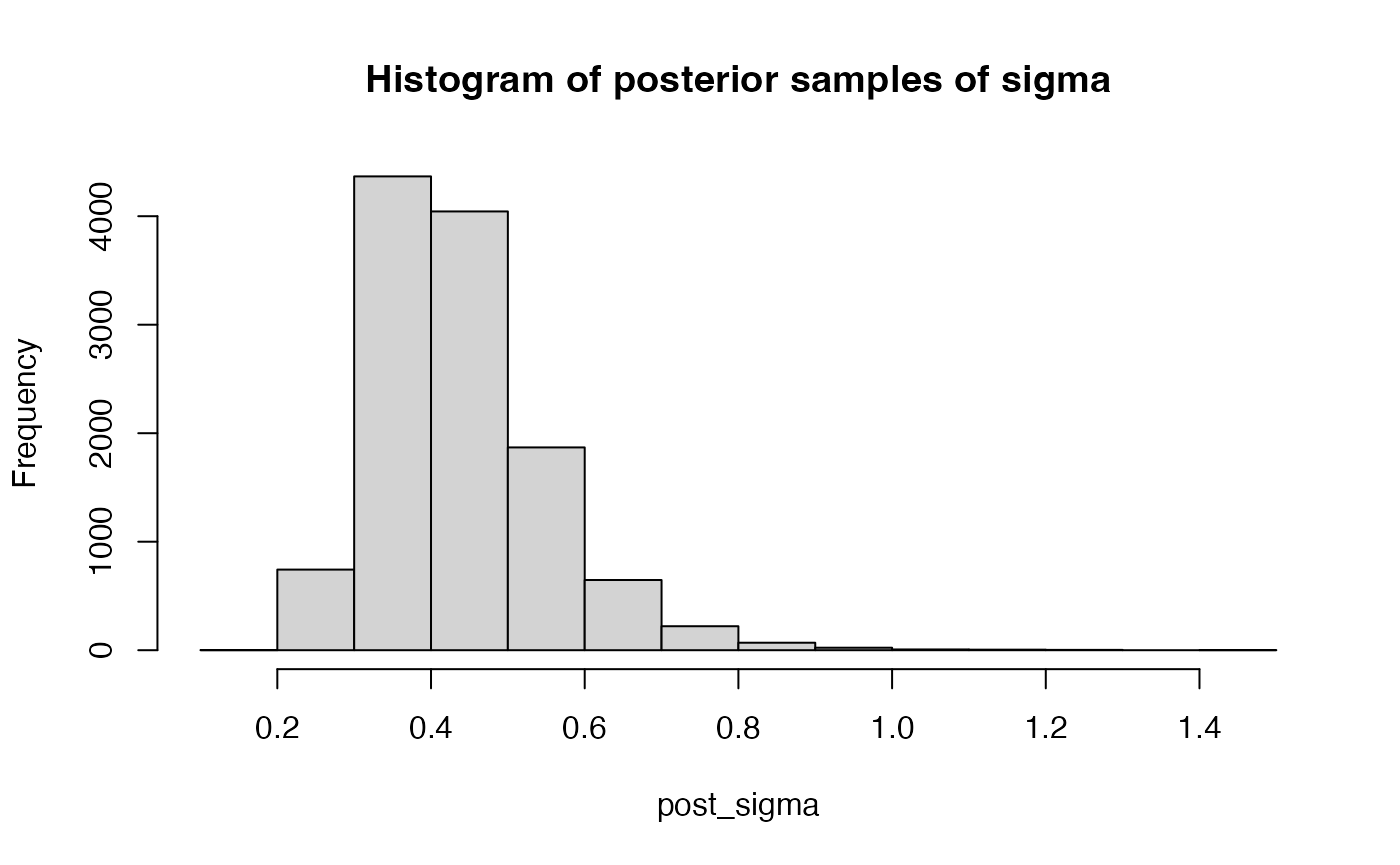
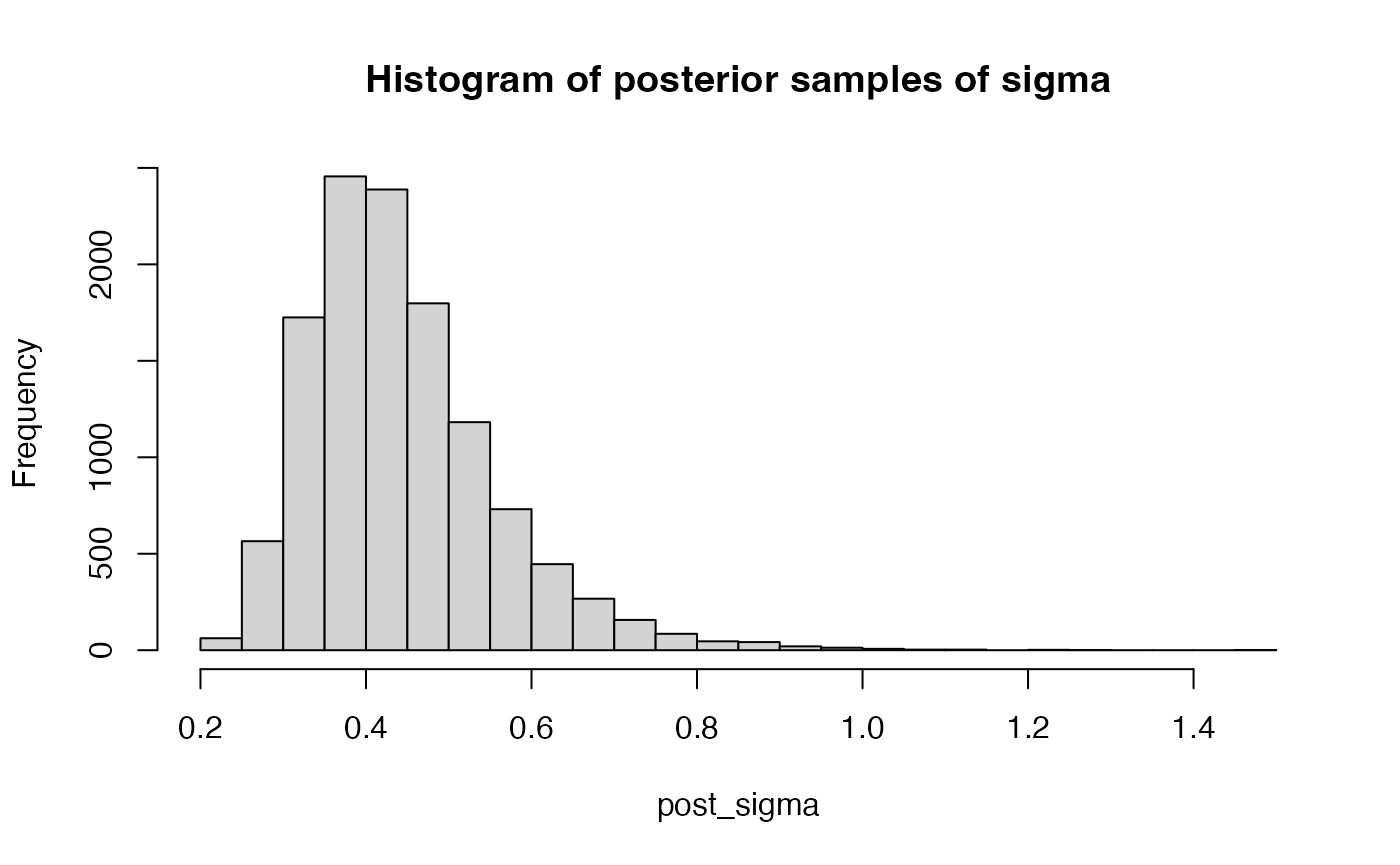
Update tutorial

diff --git a/docs/articles/FLOW-MR-tutorial.html b/docs/articles/FLOW-MR-tutorial.html
@@ -69,10 +69,10 @@ how to use the package step by step.</p>
 </h2>
 <div class="sourceCode" id="cb1"><pre class="downlit sourceCode r">
 <code class="sourceCode R"><span><span class="co"># Install devtools if not installed</span></span>
-<span><span class="fu"><a href="https://rdrr.io/r/utils/install.packages.html" class="external-link">install.packages</a></span><span class="op">(</span><span class="st">"devtools"</span><span class="op">)</span></span>
-<span><span class="co">#&gt; </span></span>
-<span><span class="co">#&gt; The downloaded binary packages are in</span></span>
-<span><span class="co">#&gt;  /var/folders/1p/kyg0zmtx4gdg27q_5x4d78fc0000gn/T//RtmpcEPzh6/downloaded_packages</span></span>
+<span><span class="kw">if</span> <span class="op">(</span><span class="op">!</span><span class="fu"><a href="https://rdrr.io/r/base/ns-load.html" class="external-link">requireNamespace</a></span><span class="op">(</span><span class="st">"devtools"</span>, quietly <span class="op">=</span> <span class="cn">TRUE</span><span class="op">)</span><span class="op">)</span> <span class="op">{</span></span>
+<span>  <span class="fu"><a href="https://rdrr.io/r/utils/install.packages.html" class="external-link">install.packages</a></span><span class="op">(</span><span class="st">"devtools"</span><span class="op">)</span></span>
+<span><span class="op">}</span></span>
+<span></span>
 <span></span>
 <span><span class="co"># Install FLOW-MR</span></span>
 <span><span class="fu">devtools</span><span class="fu">::</span><span class="fu"><a href="https://remotes.r-lib.org/reference/install_github.html" class="external-link">install_github</a></span><span class="op">(</span><span class="st">"ZixuanWu1/FLOW-MR"</span><span class="op">)</span></span>
@@ -86,9 +86,9 @@ how to use the package step by step.</p>
 <span><span class="co">#&gt; RcppArmad... (14.0.2-1 -&gt; 14.2.3-1) [CRAN]</span></span>
 <span><span class="co">#&gt; </span></span>
 <span><span class="co">#&gt; The downloaded binary packages are in</span></span>
-<span><span class="co">#&gt;  /var/folders/1p/kyg0zmtx4gdg27q_5x4d78fc0000gn/T//RtmpcEPzh6/downloaded_packages</span></span>
+<span><span class="co">#&gt;  /var/folders/1p/kyg0zmtx4gdg27q_5x4d78fc0000gn/T//RtmpL9P6lU/downloaded_packages</span></span>
 <span><span class="co">#&gt; <span style="color: #00BBBB;">──</span> <span style="color: #00BBBB;">R CMD build</span> <span style="color: #00BBBB;">─────────────────────────────────────────────────────────────────</span></span></span>
-<span><span class="co">#&gt; * checking for file ‘/private/var/folders/1p/kyg0zmtx4gdg27q_5x4d78fc0000gn/T/RtmpcEPzh6/remotesa4275d259a15/ZixuanWu1-FLOW-MR-8310e6b/DESCRIPTION’ ... OK</span></span>
+<span><span class="co">#&gt; * checking for file ‘/private/var/folders/1p/kyg0zmtx4gdg27q_5x4d78fc0000gn/T/RtmpL9P6lU/remotes17574441c9acc/ZixuanWu1-FLOW-MR-888679f/DESCRIPTION’ ... OK</span></span>
 <span><span class="co">#&gt; * preparing ‘FLOWMR’:</span></span>
 <span><span class="co">#&gt; * checking DESCRIPTION meta-information ... OK</span></span>
 <span><span class="co">#&gt; * cleaning src</span></span>
@@ -100,12 +100,26 @@ how to use the package step by step.</p>
 <span><span class="co">#&gt; Warning: bad markup (extra space?) at BayesMediation.Rd:56:30</span></span>
 <span><span class="co">#&gt; Warning: bad markup (extra space?) at BayesMediation.Rd:58:17</span></span>
 <span><span class="co">#&gt; Warning: bad markup (extra space?) at BayesMediation.Rd:59:18</span></span>
+<span><span class="co">#&gt; Warning: bad markup (extra space?) at MultivariateMediation.Rd:57:21</span></span>
+<span><span class="co">#&gt; Warning: bad markup (extra space?) at MultivariateMediation.Rd:58:22</span></span>
+<span><span class="co">#&gt; Warning: bad markup (extra space?) at MultivariateMediation.Rd:59:26</span></span>
+<span><span class="co">#&gt; Warning: bad markup (extra space?) at MultivariateMediation.Rd:61:27</span></span>
+<span><span class="co">#&gt; Warning: bad markup (extra space?) at MultivariateMediation.Rd:63:29</span></span>
+<span><span class="co">#&gt; Warning: bad markup (extra space?) at MultivariateMediation.Rd:65:30</span></span>
+<span><span class="co">#&gt; Warning: bad markup (extra space?) at MultivariateMediation.Rd:67:17</span></span>
+<span><span class="co">#&gt; Warning: bad markup (extra space?) at MultivariateMediation.Rd:68:18</span></span>
 <span><span class="co">#&gt; Warning: bad markup (extra space?) at gibbs_wrapper.Rd:64:9</span></span>
 <span><span class="co">#&gt; Warning: bad markup (extra space?) at gibbs_wrapper.Rd:65:9</span></span>
 <span><span class="co">#&gt; Warning: bad markup (extra space?) at gibbs_wrapper.Rd:66:14</span></span>
 <span><span class="co">#&gt; Warning: bad markup (extra space?) at gibbs_wrapper.Rd:67:14</span></span>
 <span><span class="co">#&gt; Warning: bad markup (extra space?) at gibbs_wrapper.Rd:68:10</span></span>
 <span><span class="co">#&gt; Warning: bad markup (extra space?) at gibbs_wrapper.Rd:69:13</span></span>
+<span><span class="co">#&gt; Warning: bad markup (extra space?) at gibbs_wrapper_multivariate.Rd:71:9</span></span>
+<span><span class="co">#&gt; Warning: bad markup (extra space?) at gibbs_wrapper_multivariate.Rd:72:9</span></span>
+<span><span class="co">#&gt; Warning: bad markup (extra space?) at gibbs_wrapper_multivariate.Rd:73:14</span></span>
+<span><span class="co">#&gt; Warning: bad markup (extra space?) at gibbs_wrapper_multivariate.Rd:74:14</span></span>
+<span><span class="co">#&gt; Warning: bad markup (extra space?) at gibbs_wrapper_multivariate.Rd:75:10</span></span>
+<span><span class="co">#&gt; Warning: bad markup (extra space?) at gibbs_wrapper_multivariate.Rd:76:13</span></span>
 <span><span class="co">#&gt; Warning: bad markup (extra space?) at summary_gibbs.Rd:24:12</span></span>
 <span><span class="co">#&gt; Warning: bad markup (extra space?) at summary_gibbs.Rd:25:16</span></span>
 <span><span class="co">#&gt; Warning: bad markup (extra space?) at summary_gibbs.Rd:26:10</span></span>
@@ -159,7 +173,7 @@ One can download the traits from this <a href="https://www.dropbox.com/scl/fo/mq
 <span><span class="va">sel.file</span> <span class="op">&lt;-</span> <span class="fu"><a href="https://rdrr.io/r/base/c.html" class="external-link">c</a></span><span class="op">(</span><span class="st">"BMI-giant17eu.csv"</span>, <span class="st">"BMIchild-egg15.csv"</span> <span class="op">)</span></span>
 <span></span>
 <span><span class="co"># Exposure file</span></span>
-<span><span class="va">exp.file</span> <span class="op">&lt;-</span> <span class="fu"><a href="https://rdrr.io/r/base/c.html" class="external-link">c</a></span><span class="op">(</span> <span class="st">"BMI8year_moba19"</span>,<span class="st">"BMIadult-ukb.csv"</span> <span class="op">)</span></span>
+<span><span class="va">exp.file</span> <span class="op">&lt;-</span> <span class="fu"><a href="https://rdrr.io/r/base/c.html" class="external-link">c</a></span><span class="op">(</span> <span class="st">"BMI8year-moba19"</span>,<span class="st">"BMIadult-ukb.csv"</span> <span class="op">)</span></span>
 <span></span>
 <span><span class="co"># Outcome file</span></span>
 <span><span class="va">out.file</span> <span class="op">&lt;-</span> <span class="st">"Breast-Micha17erp.csv"</span></span>
@@ -174,7 +188,7 @@ One can download the traits from this <a href="https://www.dropbox.com/scl/fo/mq
 <span><span class="co">#&gt; [1] "Marker candidates will not be obtained as number of risk factors k &gt; 1"</span></span>
 <span><span class="co">#&gt; [1] "loading data for selection: BMI-giant17eu.csv ..."</span></span>
 <span><span class="co">#&gt; [1] "loading data for selection: BMIchild-egg15.csv ..."</span></span>
-<span><span class="co">#&gt; [1] "loading data from exposure: BMI8year_moba19 ..."</span></span>
+<span><span class="co">#&gt; [1] "loading data from exposure: BMI8year-moba19 ..."</span></span>
 <span><span class="co">#&gt; [1] "loading data from exposure: BMIadult-ukb.csv ..."</span></span>
 <span><span class="co">#&gt; [1] "loading data from outcome: Breast-Micha17erp.csv ..."</span></span>
 <span><span class="co">#&gt; [1] "Start clumping using PLINK ..."</span></span>
@@ -210,8 +224,8 @@ diagonal matrix.</p>
 <span><span class="va">cor_mat</span> <span class="op">=</span> <span class="va">data.list</span><span class="op">$</span><span class="va">cor.mat</span><span class="op">[</span><span class="fl">3</span><span class="op">:</span><span class="fl">1</span>, <span class="fl">3</span><span class="op">:</span><span class="fl">1</span><span class="op">]</span></span>
 <span></span>
 <span><span class="va">result</span> <span class="op">=</span> <span class="fu"><a href="../reference/BayesMediation.html">BayesMediation</a></span><span class="op">(</span><span class="va">Gamma_hat</span>, <span class="va">Sd_hat</span>, cor <span class="op">=</span> <span class="va">cor_mat</span>, inv <span class="op">=</span> <span class="cn">TRUE</span><span class="op">)</span></span>
-<span><span class="co">#&gt; [1] "2025-03-14 17:51:17 CDT"</span></span>
-<span><span class="co">#&gt; [1] "2025-03-14 17:53:00 CDT"</span></span></code></pre></div>
+<span><span class="co">#&gt; [1] "2025-03-17 17:48:54 CDT"</span></span>
+<span><span class="co">#&gt; [1] "2025-03-17 17:50:38 CDT"</span></span></code></pre></div>
 </div>
 <div class="section level3">
 <h3 id="step-3-look-at-summary-of-direct-effects">Step 3: Look at summary of direct effects<a class="anchor" aria-label="anchor" href="#step-3-look-at-summary-of-direct-effects"></a>
@@ -220,34 +234,34 @@ diagonal matrix.</p>
 corresponds to a parameter.</p>
 <div class="sourceCode" id="cb6"><pre class="downlit sourceCode r">
 <code class="sourceCode R"><span><span class="fu"><a href="https://rdrr.io/r/base/print.html" class="external-link">print</a></span><span class="op">(</span><span class="va">result</span><span class="op">$</span><span class="va">summary</span><span class="op">)</span></span>
-<span><span class="co">#&gt;                   mean          var           sd         2.5%         50%</span></span>
-<span><span class="co">#&gt; B[1,2]     0.154338457 1.701102e-02 0.1304263188 -0.086087835  0.14881437</span></span>
-<span><span class="co">#&gt; B[1,3]    -0.404274992 2.928917e-02 0.1711407781 -0.769336088 -0.39693116</span></span>
-<span><span class="co">#&gt; B[2,3]     0.708872390 1.017322e-02 0.1008623577  0.540054384  0.69767799</span></span>
-<span><span class="co">#&gt; sigma      0.431804552 1.259795e-02 0.1122405760  0.273221671  0.41221633</span></span>
-<span><span class="co">#&gt; sigma1[1]  0.025784198 1.999004e-05 0.0044710217  0.018924747  0.02514419</span></span>
-<span><span class="co">#&gt; sigma1[2]  0.025985400 6.572242e-05 0.0081069366  0.015846379  0.02422156</span></span>
-<span><span class="co">#&gt; sigma1[3]  0.047919378 1.043851e-04 0.0102169049  0.032046730  0.04657167</span></span>
-<span><span class="co">#&gt; sigma0[1]  0.004181953 7.137785e-07 0.0008448541  0.002756738  0.00411279</span></span>
-<span><span class="co">#&gt; sigma0[2]  0.008421607 7.256956e-07 0.0008518777  0.006686699  0.00846911</span></span>
-<span><span class="co">#&gt; sigma0[3]  0.011072690 1.571560e-06 0.0012536189  0.008650895  0.01104732</span></span>
-<span><span class="co">#&gt; p[1]       0.098527271 1.313597e-03 0.0362435839  0.040041969  0.09461229</span></span>
-<span><span class="co">#&gt; p[2]       0.021864833 2.790611e-04 0.0167051229  0.002539565  0.01770998</span></span>
-<span><span class="co">#&gt; p[3]       0.042887034 2.604631e-04 0.0161388684  0.017589026  0.04098024</span></span>
-<span><span class="co">#&gt;                  97.5%        ESS     Rhat</span></span>
-<span><span class="co">#&gt; B[1,2]     0.430083146  406.87558 1.005156</span></span>
-<span><span class="co">#&gt; B[1,3]    -0.098941245  332.50236 1.007283</span></span>
-<span><span class="co">#&gt; B[2,3]     0.916522397   52.86458 1.019953</span></span>
-<span><span class="co">#&gt; sigma      0.713316725 4166.44315 1.001421</span></span>
-<span><span class="co">#&gt; sigma1[1]  0.036234355 1347.63199 1.001091</span></span>
-<span><span class="co">#&gt; sigma1[2]  0.046489730 3445.32948 1.001156</span></span>
-<span><span class="co">#&gt; sigma1[3]  0.071524509  969.57039 1.003497</span></span>
-<span><span class="co">#&gt; sigma0[1]  0.006013198  179.94048 1.010580</span></span>
-<span><span class="co">#&gt; sigma0[2]  0.009987379  317.68482 1.005758</span></span>
-<span><span class="co">#&gt; sigma0[3]  0.013586208  338.57316 1.005761</span></span>
-<span><span class="co">#&gt; p[1]       0.179090509  647.77104 1.002486</span></span>
-<span><span class="co">#&gt; p[2]       0.064461483  822.56019 1.002188</span></span>
-<span><span class="co">#&gt; p[3]       0.080138057 1634.96614 1.000759</span></span></code></pre></div>
+<span><span class="co">#&gt;                   mean          var           sd         2.5%          50%</span></span>
+<span><span class="co">#&gt; B[1,2]     0.158571124 1.708075e-02 0.1306933512 -0.088594706  0.155708787</span></span>
+<span><span class="co">#&gt; B[1,3]    -0.416820534 3.037425e-02 0.1742821007 -0.772970801 -0.408581119</span></span>
+<span><span class="co">#&gt; B[2,3]     0.729903282 8.361712e-03 0.0914423953  0.564416591  0.726111975</span></span>
+<span><span class="co">#&gt; sigma      0.432940868 1.258926e-02 0.1122018645  0.273914991  0.412901419</span></span>
+<span><span class="co">#&gt; sigma1[1]  0.025897252 1.995543e-05 0.0044671501  0.018968703  0.025298456</span></span>
+<span><span class="co">#&gt; sigma1[2]  0.025400411 5.691362e-05 0.0075441115  0.015802744  0.023753648</span></span>
+<span><span class="co">#&gt; sigma1[3]  0.046966628 9.573373e-05 0.0097843616  0.032002343  0.045542140</span></span>
+<span><span class="co">#&gt; sigma0[1]  0.004279803 7.322883e-07 0.0008557385  0.002882453  0.004194274</span></span>
+<span><span class="co">#&gt; sigma0[2]  0.008336840 7.043863e-07 0.0008392773  0.006698575  0.008356154</span></span>
+<span><span class="co">#&gt; sigma0[3]  0.010865672 1.488539e-06 0.0012200570  0.008584134  0.010815020</span></span>
+<span><span class="co">#&gt; p[1]       0.096893667 1.223057e-03 0.0349722279  0.039493403  0.093387522</span></span>
+<span><span class="co">#&gt; p[2]       0.023916549 3.255310e-04 0.0180424783  0.002547653  0.019647269</span></span>
+<span><span class="co">#&gt; p[3]       0.042358001 2.525140e-04 0.0158906899  0.017389480  0.040189888</span></span>
+<span><span class="co">#&gt;                  97.5%        ESS      Rhat</span></span>
+<span><span class="co">#&gt; B[1,2]     0.421482632  496.41018 1.0033982</span></span>
+<span><span class="co">#&gt; B[1,3]    -0.086527013  311.31244 1.0034254</span></span>
+<span><span class="co">#&gt; B[2,3]     0.928726204   60.24373 1.0086724</span></span>
+<span><span class="co">#&gt; sigma      0.702160361 4455.55279 1.0009391</span></span>
+<span><span class="co">#&gt; sigma1[1]  0.036117189 1364.89387 1.0042282</span></span>
+<span><span class="co">#&gt; sigma1[2]  0.044571476 2874.80598 0.9998832</span></span>
+<span><span class="co">#&gt; sigma1[3]  0.069936393 1211.18638 1.0008464</span></span>
+<span><span class="co">#&gt; sigma0[1]  0.006155495  178.22450 1.0449098</span></span>
+<span><span class="co">#&gt; sigma0[2]  0.009872035  364.44844 1.0050532</span></span>
+<span><span class="co">#&gt; sigma0[3]  0.013334242  371.98046 1.0006414</span></span>
+<span><span class="co">#&gt; p[1]       0.173356366  648.51063 1.0095333</span></span>
+<span><span class="co">#&gt; p[2]       0.070259503  779.62068 1.0019857</span></span>
+<span><span class="co">#&gt; p[3]       0.079158536 1734.45765 1.0011530</span></span></code></pre></div>
 <p>In this summary, we provide the estimated posterior mean, variance,
 standard deviation, 2.5% quantile, median, 97.5% quantile, effective
 sample size (ESS), and Gelman-Rubin Rhat statistic for each parameter.
@@ -321,7 +335,7 @@ a user-defined warm-up period. The parameter must be one of “B”,
 <div class="sourceCode" id="cb9"><pre class="downlit sourceCode r">
 <code class="sourceCode R"><span><span class="fu"><a href="https://rdrr.io/r/stats/quantile.html" class="external-link">quantile</a></span><span class="op">(</span><span class="va">post_B</span>, <span class="fu"><a href="https://rdrr.io/r/base/c.html" class="external-link">c</a></span><span class="op">(</span><span class="fl">0.025</span>, <span class="fl">.5</span>, <span class="fl">0.975</span><span class="op">)</span><span class="op">)</span></span>
 <span><span class="co">#&gt;        2.5%         50%       97.5% </span></span>
-<span><span class="co">#&gt; -0.76933609 -0.39693116 -0.09894124</span></span></code></pre></div>
+<span><span class="co">#&gt; -0.77297080 -0.40858112 -0.08652701</span></span></code></pre></div>
 <p>And we can also draw a histogram of it for visualization:</p>
 <div class="sourceCode" id="cb10"><pre class="downlit sourceCode r">
 <code class="sourceCode R"><span><span class="fu"><a href="https://rdrr.io/r/graphics/hist.html" class="external-link">hist</a></span><span class="op">(</span><span class="va">post_B</span>, breaks <span class="op">=</span> <span class="fl">30</span>, main <span class="op">=</span> <span class="st">"Histogram of posterior samples of direct effects of X3 on X1"</span><span class="op">)</span></span></code></pre></div>
@@ -330,12 +344,12 @@ a user-defined warm-up period. The parameter must be one of “B”,
 index argument have to be 1 dimensional. For example</p>
 <div class="sourceCode" id="cb11"><pre class="downlit sourceCode r">
 <code class="sourceCode R"><span><span class="va">post_p</span> <span class="op">=</span> <span class="fu"><a href="../reference/get_posterior_samples.html">get_posterior_samples</a></span><span class="op">(</span><span class="va">result</span><span class="op">$</span><span class="va">raw</span>, par <span class="op">=</span> <span class="st">"p"</span>, K <span class="op">=</span> <span class="fl">3</span>, ind <span class="op">=</span> <span class="fl">1</span>, warmup <span class="op">=</span> <span class="fl">3000</span><span class="op">)</span></span>
-<span><span class="fu"><a href="https://rdrr.io/r/graphics/hist.html" class="external-link">hist</a></span><span class="op">(</span><span class="va">post_p</span>, main <span class="op">=</span> <span class="st">"Histogram of posterior samples of p1"</span><span class="op">)</span></span></code></pre></div>
+<span><span class="fu"><a href="https://rdrr.io/r/graphics/hist.html" class="external-link">hist</a></span><span class="op">(</span><span class="va">post_p</span>,  breaks <span class="op">=</span> <span class="fl">30</span>, main <span class="op">=</span> <span class="st">"Histogram of posterior samples of p1"</span><span class="op">)</span></span></code></pre></div>
 <p><img src="FLOW-MR-tutorial_files/figure-html/unnamed-chunk-11-1.png" width="700"></p>
 <p>For <code>sigma</code>, the index argument should be NULL:</p>
 <div class="sourceCode" id="cb12"><pre class="downlit sourceCode r">
 <code class="sourceCode R"><span><span class="va">post_sigma</span> <span class="op">=</span> <span class="fu"><a href="../reference/get_posterior_samples.html">get_posterior_samples</a></span><span class="op">(</span><span class="va">result</span><span class="op">$</span><span class="va">raw</span>, par <span class="op">=</span> <span class="st">"sigma"</span>, K <span class="op">=</span> <span class="fl">3</span>, ind <span class="op">=</span> <span class="cn">NULL</span>, warmup <span class="op">=</span> <span class="fl">3000</span><span class="op">)</span></span>
-<span><span class="fu"><a href="https://rdrr.io/r/graphics/hist.html" class="external-link">hist</a></span><span class="op">(</span><span class="va">post_sigma</span>, main <span class="op">=</span> <span class="st">"Histogram of posterior samples of sigma"</span><span class="op">)</span></span></code></pre></div>
+<span><span class="fu"><a href="https://rdrr.io/r/graphics/hist.html" class="external-link">hist</a></span><span class="op">(</span><span class="va">post_sigma</span>,  breaks <span class="op">=</span> <span class="fl">30</span>, main <span class="op">=</span> <span class="st">"Histogram of posterior samples of sigma"</span><span class="op">)</span></span></code></pre></div>
 <p><img src="FLOW-MR-tutorial_files/figure-html/unnamed-chunk-12-1.png" width="700"></p>
 </div>
 <div class="section level3">
@@ -367,8 +381,8 @@ indirect effect of childhood BMI on breast cancer through adult BMI:</p>
 <div class="sourceCode" id="cb15"><pre class="downlit sourceCode r">
 <code class="sourceCode R"><span><span class="va">path_effect</span> <span class="op">=</span> <span class="fu"><a href="../reference/indirect_effect.html">indirect_effect</a></span><span class="op">(</span><span class="va">result</span><span class="op">$</span><span class="va">raw</span>, K <span class="op">=</span> <span class="fl">3</span>, path <span class="op">=</span> <span class="fu"><a href="https://rdrr.io/r/base/c.html" class="external-link">c</a></span><span class="op">(</span><span class="fl">3</span>,<span class="fl">2</span>,<span class="fl">1</span><span class="op">)</span>,  warmup <span class="op">=</span> <span class="fl">3000</span><span class="op">)</span></span>
 <span><span class="fu"><a href="https://rdrr.io/r/base/print.html" class="external-link">print</a></span><span class="op">(</span><span class="va">path_effect</span><span class="op">)</span></span>
-<span><span class="co">#&gt;        Mean        2.5%      50%     97.5%</span></span>
-<span><span class="co">#&gt; 1 0.1145172 -0.05706925 0.102001 0.3561111</span></span></code></pre></div>
+<span><span class="co">#&gt;        Mean        2.5%       50%     97.5%</span></span>
+<span><span class="co">#&gt; 1 0.1197818 -0.06143416 0.1103945 0.3452347</span></span></code></pre></div>
 <p>The <code>path</code> parameter specifies the path you are interested
 it. In this case it is 3 -&gt; 2 -&gt; 1.</p>
 <p>This can also be done by first extracting the posterior samples of
@@ -378,7 +392,7 @@ it. In this case it is 3 -&gt; 2 -&gt; 1.</p>
 <span><span class="va">post_B2</span> <span class="op">=</span> <span class="fu"><a href="../reference/get_posterior_samples.html">get_posterior_samples</a></span><span class="op">(</span><span class="va">result</span><span class="op">$</span><span class="va">raw</span>, par <span class="op">=</span> <span class="st">"B"</span>, K <span class="op">=</span> <span class="fl">3</span>, ind <span class="op">=</span> <span class="fu"><a href="https://rdrr.io/r/base/c.html" class="external-link">c</a></span><span class="op">(</span><span class="fl">2</span>,<span class="fl">3</span><span class="op">)</span>, warmup <span class="op">=</span> <span class="fl">3000</span><span class="op">)</span></span>
 <span><span class="fu"><a href="https://rdrr.io/r/base/print.html" class="external-link">print</a></span><span class="op">(</span><span class="fu"><a href="https://rdrr.io/r/stats/quantile.html" class="external-link">quantile</a></span><span class="op">(</span><span class="va">post_B1</span> <span class="op">*</span> <span class="va">post_B2</span>, <span class="fu"><a href="https://rdrr.io/r/base/c.html" class="external-link">c</a></span><span class="op">(</span><span class="fl">0.025</span>, <span class="fl">.5</span>, <span class="fl">.975</span><span class="op">)</span><span class="op">)</span><span class="op">)</span></span>
 <span><span class="co">#&gt;        2.5%         50%       97.5% </span></span>
-<span><span class="co">#&gt; -0.05706925  0.10200105  0.35611112</span></span></code></pre></div>
+<span><span class="co">#&gt; -0.06143416  0.11039454  0.34523474</span></span></code></pre></div>
 <p>Alternatively, instead of focusing on a specific path, you can
 estimate the sum of effects from all non-direct paths. The function
 <code>indirect_effect</code> summarizes the posterior samples of all
@@ -392,28 +406,28 @@ dimensions of <code>B</code>, the third dimension contains the mean,
 <span><span class="co">#&gt; , , Mean</span></span>
 <span><span class="co">#&gt; </span></span>
 <span><span class="co">#&gt;      [,1] [,2]      [,3]</span></span>
-<span><span class="co">#&gt; [1,]    0    0 0.1145172</span></span>
+<span><span class="co">#&gt; [1,]    0    0 0.1197818</span></span>
 <span><span class="co">#&gt; [2,]    0    0 0.0000000</span></span>
 <span><span class="co">#&gt; [3,]    0    0 0.0000000</span></span>
 <span><span class="co">#&gt; </span></span>
 <span><span class="co">#&gt; , , Quantile_0.025</span></span>
 <span><span class="co">#&gt; </span></span>
 <span><span class="co">#&gt;      [,1] [,2]        [,3]</span></span>
-<span><span class="co">#&gt; [1,]    0    0 -0.05706925</span></span>
+<span><span class="co">#&gt; [1,]    0    0 -0.06143416</span></span>
 <span><span class="co">#&gt; [2,]    0    0  0.00000000</span></span>
 <span><span class="co">#&gt; [3,]    0    0  0.00000000</span></span>
 <span><span class="co">#&gt; </span></span>
 <span><span class="co">#&gt; , , Quantile_0.5</span></span>
 <span><span class="co">#&gt; </span></span>
-<span><span class="co">#&gt;      [,1] [,2]     [,3]</span></span>
-<span><span class="co">#&gt; [1,]    0    0 0.102001</span></span>
-<span><span class="co">#&gt; [2,]    0    0 0.000000</span></span>
-<span><span class="co">#&gt; [3,]    0    0 0.000000</span></span>
+<span><span class="co">#&gt;      [,1] [,2]      [,3]</span></span>
+<span><span class="co">#&gt; [1,]    0    0 0.1103945</span></span>
+<span><span class="co">#&gt; [2,]    0    0 0.0000000</span></span>
+<span><span class="co">#&gt; [3,]    0    0 0.0000000</span></span>
 <span><span class="co">#&gt; </span></span>
 <span><span class="co">#&gt; , , Quantile_0.975</span></span>
 <span><span class="co">#&gt; </span></span>
 <span><span class="co">#&gt;      [,1] [,2]      [,3]</span></span>
-<span><span class="co">#&gt; [1,]    0    0 0.3561111</span></span>
+<span><span class="co">#&gt; [1,]    0    0 0.3452347</span></span>
 <span><span class="co">#&gt; [2,]    0    0 0.0000000</span></span>
 <span><span class="co">#&gt; [3,]    0    0 0.0000000</span></span></code></pre></div>
 <p>We can also examine the posterior inference for the total effects,
@@ -424,29 +438,29 @@ which represent the sum of the direct and indirect effects.</p>
 <span><span class="co">#&gt; , , Mean</span></span>
 <span><span class="co">#&gt; </span></span>
 <span><span class="co">#&gt;      [,1]      [,2]       [,3]</span></span>
-<span><span class="co">#&gt; [1,]    0 0.1543385 -0.2897578</span></span>
-<span><span class="co">#&gt; [2,]    0 0.0000000  0.7088724</span></span>
+<span><span class="co">#&gt; [1,]    0 0.1585711 -0.2970388</span></span>
+<span><span class="co">#&gt; [2,]    0 0.0000000  0.7299033</span></span>
 <span><span class="co">#&gt; [3,]    0 0.0000000  0.0000000</span></span>
 <span><span class="co">#&gt; </span></span>
 <span><span class="co">#&gt; , , Quantile_0.025</span></span>
 <span><span class="co">#&gt; </span></span>
 <span><span class="co">#&gt;      [,1]        [,2]       [,3]</span></span>
-<span><span class="co">#&gt; [1,]    0 -0.08608784 -0.4663309</span></span>
-<span><span class="co">#&gt; [2,]    0  0.00000000  0.5400544</span></span>
+<span><span class="co">#&gt; [1,]    0 -0.08859471 -0.4794140</span></span>
+<span><span class="co">#&gt; [2,]    0  0.00000000  0.5644166</span></span>
 <span><span class="co">#&gt; [3,]    0  0.00000000  0.0000000</span></span>
 <span><span class="co">#&gt; </span></span>
 <span><span class="co">#&gt; , , Quantile_0.5</span></span>
 <span><span class="co">#&gt; </span></span>
-<span><span class="co">#&gt;      [,1]      [,2]      [,3]</span></span>
-<span><span class="co">#&gt; [1,]    0 0.1488144 -0.286424</span></span>
-<span><span class="co">#&gt; [2,]    0 0.0000000  0.697678</span></span>
-<span><span class="co">#&gt; [3,]    0 0.0000000  0.000000</span></span>
+<span><span class="co">#&gt;      [,1]      [,2]       [,3]</span></span>
+<span><span class="co">#&gt; [1,]    0 0.1557088 -0.2931256</span></span>
+<span><span class="co">#&gt; [2,]    0 0.0000000  0.7261120</span></span>
+<span><span class="co">#&gt; [3,]    0 0.0000000  0.0000000</span></span>
 <span><span class="co">#&gt; </span></span>
 <span><span class="co">#&gt; , , Quantile_0.975</span></span>
 <span><span class="co">#&gt; </span></span>
 <span><span class="co">#&gt;      [,1]      [,2]       [,3]</span></span>
-<span><span class="co">#&gt; [1,]    0 0.4300831 -0.1288943</span></span>
-<span><span class="co">#&gt; [2,]    0 0.0000000  0.9165224</span></span>
+<span><span class="co">#&gt; [1,]    0 0.4214826 -0.1284121</span></span>
+<span><span class="co">#&gt; [2,]    0 0.0000000  0.9287262</span></span>
 <span><span class="co">#&gt; [3,]    0 0.0000000  0.0000000</span></span></code></pre></div>
 <p>Finally, we demonstrate how to extract posterior samples of total,
 indirect, and path-wise effects, similar to how we did for the direct
@@ -455,13 +469,13 @@ effects.</p>
 <code>get_total_samples</code>.</p>
 <div class="sourceCode" id="cb19"><pre class="downlit sourceCode r">
 <code class="sourceCode R"><span><span class="va">tot_samples</span> <span class="op">=</span> <span class="fu"><a href="../reference/get_total_samples.html">get_total_samples</a></span><span class="op">(</span><span class="va">result</span><span class="op">$</span><span class="va">raw</span>, <span class="fl">3</span>, ind <span class="op">=</span> <span class="fu"><a href="https://rdrr.io/r/base/c.html" class="external-link">c</a></span><span class="op">(</span><span class="fl">1</span>,<span class="fl">3</span><span class="op">)</span><span class="op">)</span></span>
-<span><span class="fu"><a href="https://rdrr.io/r/graphics/hist.html" class="external-link">hist</a></span><span class="op">(</span><span class="va">tot_samples</span>, main <span class="op">=</span> <span class="st">"Histogram of posterior samples of total effects of X3 on X1"</span><span class="op">)</span></span></code></pre></div>
+<span><span class="fu"><a href="https://rdrr.io/r/graphics/hist.html" class="external-link">hist</a></span><span class="op">(</span><span class="va">tot_samples</span>, breaks <span class="op">=</span> <span class="fl">30</span>,  main <span class="op">=</span> <span class="st">"Histogram of posterior samples of total effects of X3 on X1"</span><span class="op">)</span></span></code></pre></div>
 <p><img src="FLOW-MR-tutorial_files/figure-html/unnamed-chunk-19-1.png" width="700"></p>
 <p>For path-wise effect, we use the function
 <code>get_indirect_samples</code>.</p>
 <div class="sourceCode" id="cb20"><pre class="downlit sourceCode r">
 <code class="sourceCode R"><span><span class="va">path_samples</span> <span class="op">=</span> <span class="fu"><a href="../reference/get_indirect_samples.html">get_indirect_samples</a></span><span class="op">(</span><span class="va">result</span><span class="op">$</span><span class="va">raw</span>, <span class="fl">3</span>, path <span class="op">=</span> <span class="fu"><a href="https://rdrr.io/r/base/c.html" class="external-link">c</a></span><span class="op">(</span><span class="fl">3</span>,<span class="fl">2</span>,<span class="fl">1</span><span class="op">)</span><span class="op">)</span></span>
-<span><span class="fu"><a href="https://rdrr.io/r/graphics/hist.html" class="external-link">hist</a></span><span class="op">(</span><span class="va">path_samples</span>, main <span class="op">=</span> <span class="st">"Histogram of posterior samples of the effect of X3 on X1 through X2"</span><span class="op">)</span></span></code></pre></div>
+<span><span class="fu"><a href="https://rdrr.io/r/graphics/hist.html" class="external-link">hist</a></span><span class="op">(</span><span class="va">path_samples</span>, breaks <span class="op">=</span> <span class="fl">30</span>,  main <span class="op">=</span> <span class="st">"Histogram of posterior samples of the effect of X3 on X1 through X2"</span><span class="op">)</span></span></code></pre></div>
 <p><img src="FLOW-MR-tutorial_files/figure-html/unnamed-chunk-20-1.png" width="700"></p>
 <p>For the joint effect of non-direct paths, we still use the function
 <code>get_indirect_samples</code>. In this case we need to set
@@ -470,7 +484,7 @@ this case, since there is only 1 indirect path, the indirect effect will
 be identical to the path-wise effect we just examined</p>
 <div class="sourceCode" id="cb21"><pre class="downlit sourceCode r">
 <code class="sourceCode R"><span><span class="va">ind_samples</span> <span class="op">=</span> <span class="fu"><a href="../reference/get_indirect_samples.html">get_indirect_samples</a></span><span class="op">(</span><span class="va">result</span><span class="op">$</span><span class="va">raw</span>, <span class="fl">3</span>, path <span class="op">=</span> <span class="st">"all"</span>, ind <span class="op">=</span> <span class="fu"><a href="https://rdrr.io/r/base/c.html" class="external-link">c</a></span><span class="op">(</span><span class="fl">1</span>,<span class="fl">3</span><span class="op">)</span><span class="op">)</span></span>
-<span><span class="fu"><a href="https://rdrr.io/r/graphics/hist.html" class="external-link">hist</a></span><span class="op">(</span><span class="va">ind_samples</span>, , main <span class="op">=</span> <span class="st">"Histogram of posterior samples of indirect effects of X3 on X1"</span><span class="op">)</span></span></code></pre></div>
+<span><span class="fu"><a href="https://rdrr.io/r/graphics/hist.html" class="external-link">hist</a></span><span class="op">(</span><span class="va">ind_samples</span>,  breaks <span class="op">=</span> <span class="fl">30</span>,  main <span class="op">=</span> <span class="st">"Histogram of posterior samples of indirect effects of X3 on X1"</span><span class="op">)</span></span></code></pre></div>
 <p><img src="FLOW-MR-tutorial_files/figure-html/unnamed-chunk-21-1.png" width="700"></p>
 </div>
 </div>

diff --git a/docs/index.html b/docs/index.html
@@ -50,6 +50,18 @@
 <p>This is the R package for FLOW-MR, a Bayesian framework for Mendelian Randomization in the mediation setting.</p>
 <p>For details of the FLOW-MR framework, please refer to our <a href="https://www.biorxiv.org/content/biorxiv/early/2024/02/12/2024.02.10.579129.full.pdf" class="external-link">manuscript</a>.</p>
 <p>Here we give a brief description of the method. Check <a href="https://ZixuanWu1.github.io/FLOW-MR/articles/FLOW-MR-tutorial.html">tutorial</a> for the complete workflow.</p>
+<p>For the code reproducing the results in the manuscript, please visit <a href="https://github.com/ZixuanWu1/FLOW-MR-PAPER" class="external-link">link</a>.</p>
+<div class="section level2">
+<h2 id="hardware-requirements">Hardware Requirements<a class="anchor" aria-label="anchor" href="#hardware-requirements"></a>
+</h2>
+<p>The FLOWMR package requires a standard computer with sufficient RAM to support in-memory operations. A minimum of four CPU cores is recommended for parallel execution.</p>
+</div>
+<div class="section level2">
+<h2 id="operating-system-and-software-requirements">Operating System and Software Requirements<a class="anchor" aria-label="anchor" href="#operating-system-and-software-requirements"></a>
+</h2>
+<p>The package was developed and tested on macOS Sonoma 14.0.</p>
+<p>It is expected to be compatible with both Windows and macOS. Before using FLOWMR, users should install the necessary dependencies from CRAN, as specified in the DESCRIPTION file.</p>
+</div>
 <div class="section level2">
 <h2 id="installation">Installation<a class="anchor" aria-label="anchor" href="#installation"></a>
 </h2>
@@ -58,6 +70,7 @@
 <p>Then the package can be installed in R from this Github repository:</p>
 <pre><code><span><span class="kw"><a href="https://rdrr.io/r/base/library.html" class="external-link">library</a></span><span class="op">(</span><span class="va"><a href="https://devtools.r-lib.org/" class="external-link">devtools</a></span><span class="op">)</span></span>
 <span><span class="fu"><a href="https://remotes.r-lib.org/reference/install_github.html" class="external-link">install_github</a></span><span class="op">(</span><span class="st">"ZixuanWu1/FLOW-MR"</span><span class="op">)</span></span></code></pre>
+<p>The installation should take no more than 5 minuts on a normal computer</p>
 </div>
 <div class="section level2">
 <h2 id="basic-usage">Basic Usage<a class="anchor" aria-label="anchor" href="#basic-usage"></a>

diff --git a/docs/reference/get_posterior_samples.html b/docs/reference/get_posterior_samples.html
@@ -37,7 +37,7 @@
 
     <div class="section level2">
     <h2 id="ref-usage">Usage<a class="anchor" aria-label="anchor" href="#ref-usage"></a></h2>
-    <div class="sourceCode"><pre class="sourceCode r"><code><span><span class="fu">get_posterior_samples</span><span class="op">(</span><span class="va">raw</span>, <span class="va">par</span>, ind <span class="op">=</span> <span class="cn">NULL</span>, warmup <span class="op">=</span> <span class="fl">3000</span><span class="op">)</span></span></code></pre></div>
+    <div class="sourceCode"><pre class="sourceCode r"><code><span><span class="fu">get_posterior_samples</span><span class="op">(</span><span class="va">raw</span>, <span class="va">par</span>, <span class="va">K</span>, ind <span class="op">=</span> <span class="cn">NULL</span>, warmup <span class="op">=</span> <span class="fl">3000</span><span class="op">)</span></span></code></pre></div>
     </div>
 
     <div class="section level2">
@@ -50,6 +50,10 @@
 
 <dt id="arg-par">par<a class="anchor" aria-label="anchor" href="#arg-par"></a></dt>
 <dd><p>parameter of interets</p></dd>
+
+
+<dt id="arg-k">K<a class="anchor" aria-label="anchor" href="#arg-k"></a></dt>
+<dd><p>number of traits</p></dd>
 
 
 <dt id="arg-ind">ind<a class="anchor" aria-label="anchor" href="#arg-ind"></a></dt>

diff --git a/docs/reference/index.html b/docs/reference/index.html
@@ -54,6 +54,12 @@
         <dd>An R Package for Mendelian Randomization in the mediation setting</dd>
       </dl><dl><dt>
 
+          <code><a href="MultivariateMediation.html">MultivariateMediation()</a></code>
+
+        </dt>
+        <dd>BayesMediation</dd>
+      </dl><dl><dt>
+
           <code><a href="get_indirect_samples.html">get_indirect_samples()</a></code>
 
         </dt>
@@ -85,6 +91,12 @@
       </dl><dl><dt>
 
           <code><a href="gibbs_wrapper.html">gibbs_wrapper()</a></code>
+
+        </dt>
+        <dd>Gibbs sampler</dd>
+      </dl><dl><dt>
+
+          <code><a href="gibbs_wrapper_multivariate.html">gibbs_wrapper_multivariate()</a></code>
 
         </dt>
         <dd>Gibbs sampler</dd>

diff --git a/docs/reference/BayesMediation.html b/docs/reference/BayesMediation.html
@@ -44,7 +44,7 @@
 <span>  iter <span class="op">=</span> <span class="fl">6000</span>,</span>
 <span>  warmup <span class="op">=</span> <span class="fl">3000</span>,</span>
 <span>  second <span class="op">=</span> <span class="cn">F</span>,</span>
-<span>  inv <span class="op">=</span> <span class="cn">FALSE</span>,</span>
+<span>  inv <span class="op">=</span> <span class="cn">T</span>,</span>
 <span>  cor <span class="op">=</span> <span class="cn">NULL</span>,</span>
 <span>  Raw <span class="op">=</span> <span class="cn">T</span>,</span>
 <span>  total <span class="op">=</span> <span class="cn">F</span>,</span>
